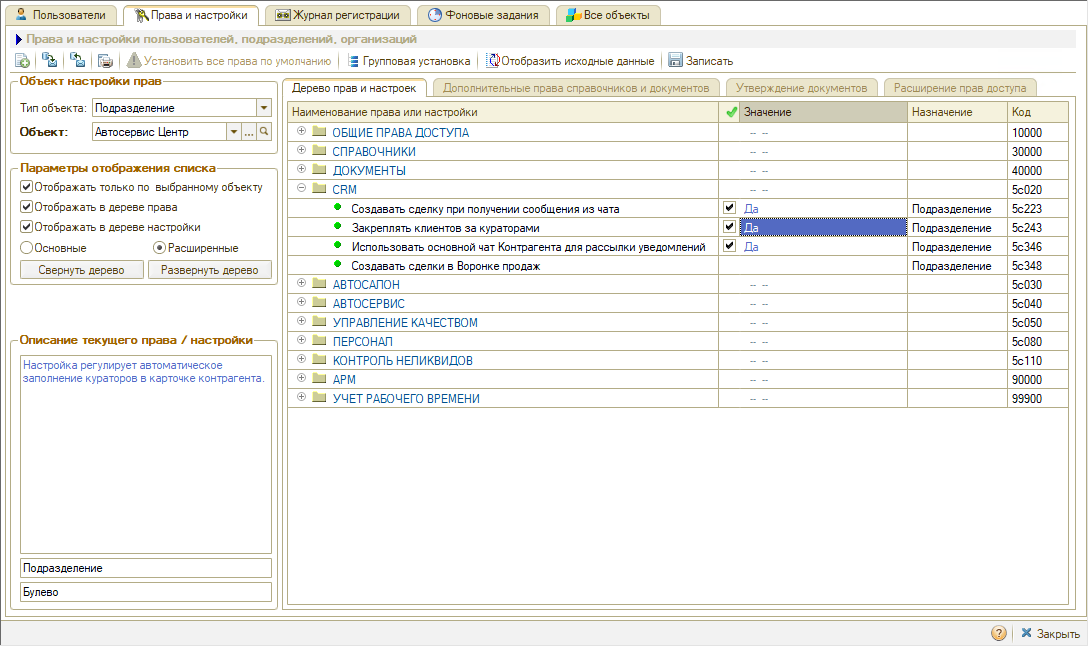
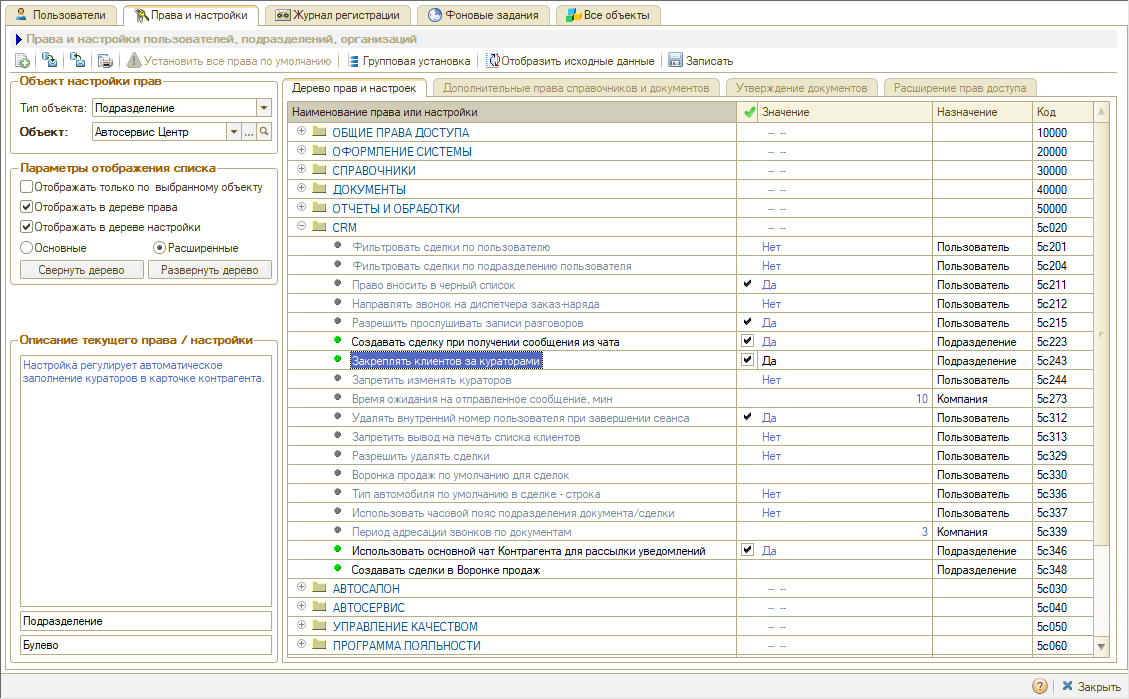
Совет «Где указать куратора контрагента» (Katya, черновик): раздел «Настройки» – «Закреплять клиентов за кураторами» (автозаполнение) и право «Запретить изменять кураторов»; новый скрин настройки и скрин права из папки «Кураторы» (Катя, 02.11.2026).

diff --git a/tips/5S AUTO/CRM/Где указать куратора контрагента/gde-ukazat-kuratora-kontragenta.md b/tips/5S AUTO/CRM/Где указать куратора контрагента/gde-ukazat-kuratora-kontragenta.md
@@ -28,11 +28,17 @@
 
 Чтобы звонок дошел до куратора, у него должен быть настроен внутренний номер телефона — см. статью «[Настройка внутренних телефонов сотрудников](https://kb.5systems.ru/articles/5s-auto/telefoniya/nastroyka-vnutrennikh-telefonov-sotrudnikov)».
 
-### Настройка
+### Настройки
 
-Чтобы поле **«Кураторы»** в карточке контрагента можно было редактировать, должна быть включена настройка **«Закреплять клиентов за кураторами»** (группа **«CRM»**, назначается для подразделения). Ее устанавливает администратор в «Правах и настройках» — как перейти, см. в статье «[Установка прав и настроек пользователя → Переход к установке Прав и настроек](https://kb.5systems.ru/articles/5s-auto/polzovateli-i-prava/ustanovka-prav-i-nastroek-polzovatelya#переход-к-установке-прав-и-настроек)».
+Работу с кураторами регулируют две настройки в группе **«CRM»**. Их устанавливает администратор в «Правах и настройках» — как перейти, см. в статье «[Установка прав и настроек пользователя → Переход к установке Прав и настроек](https://kb.5systems.ru/articles/5s-auto/polzovateli-i-prava/ustanovka-prav-i-nastroek-polzovatelya#переход-к-установке-прав-и-настроек)».
 
-![Настройка «Закреплять клиентов за кураторами»](attachments/03-nastroyka-zakreplyat-klientov.png)
+- **«Закреплять клиентов за кураторами»** (назначается для подразделения) — регулирует автоматическое заполнение кураторов в карточке контрагента.
+
+  ![Настройка «Закреплять клиентов за кураторами»](attachments/03-nastroyka-zakreplyat-klientov.png)
+
+- **«Запретить изменять кураторов»** (назначается для пользователя) — разрешает или запрещает изменять кураторов в карточках контрагентов. Если у пользователя установлено значение **«Да»**, изменить кураторов в карточке он не сможет. Чтобы пользователь мог указывать кураторов, установите значение **«Нет»**.
+
+  ![Право «Запретить изменять кураторов»](attachments/04-pravo-zapretit-izmenyat-kuratorov.png)
 
 ## См. также
 
@@ -54,4 +60,4 @@
 
 ## Теги
 
-куратор, кураторы, контрагент, карточка контрагента, контактная информация, договор, умная маршрутизация, входящий звонок, телефония, закреплять клиентов за кураторами
+куратор, кураторы, контрагент, карточка контрагента, контактная информация, договор, умная маршрутизация, входящий звонок, телефония, закреплять клиентов за кураторами, запретить изменять кураторов
